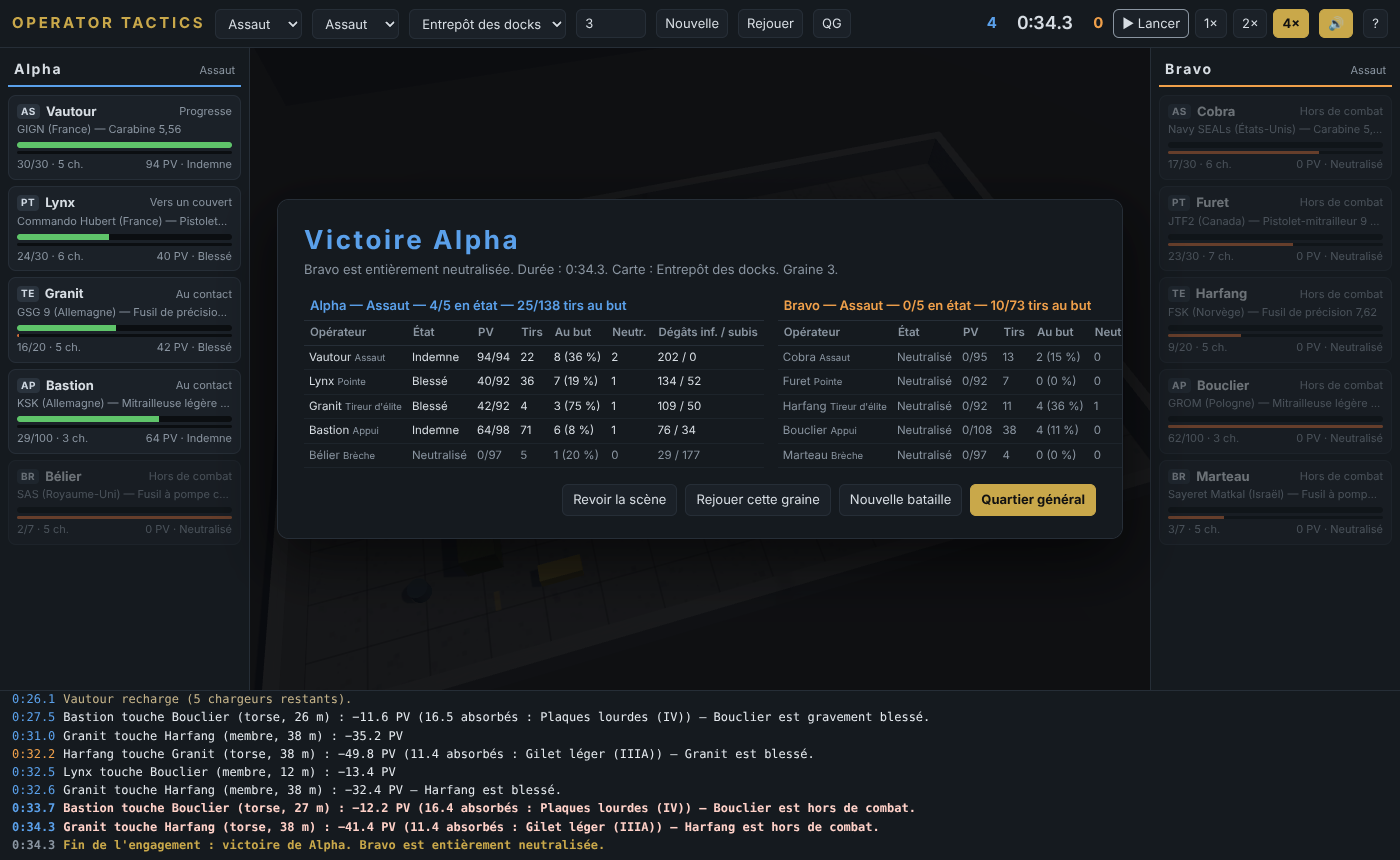
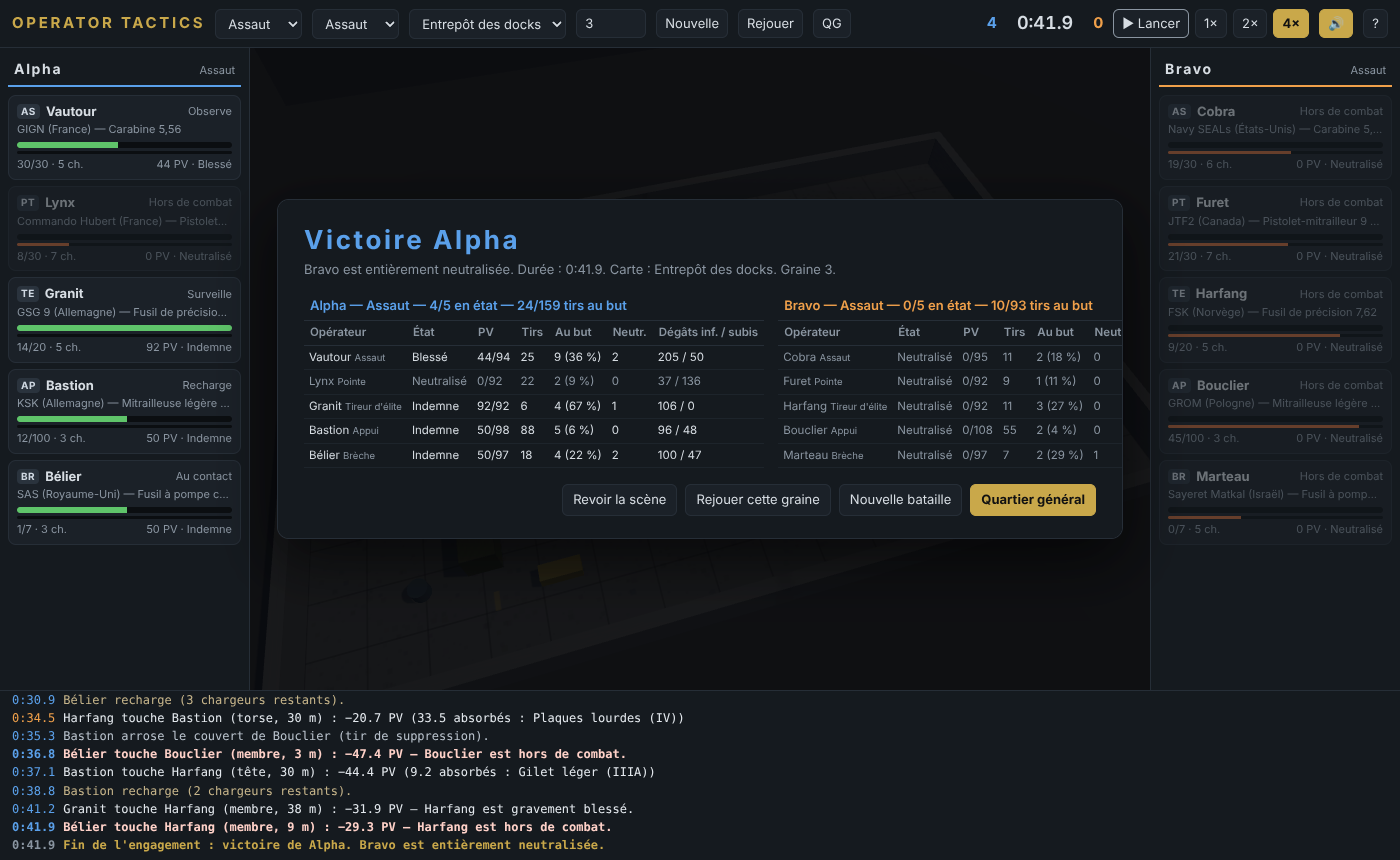
Équilibrage PM / fusil de précision, README
Claude-Session: https://claude.ai/code/session_01WV7pHQBGSsRxin6CyTjYgN

diff --git a/dist/artifact.html b/dist/artifact.html
@@ -269,13 +269,13 @@ window.Son = Son;
   // kit       : nombre de chargeurs emportés (en plus de celui dans l'arme)
   const WEAPONS = {
     carbine:  { id: 'carbine',  name: 'Carabine 5,56',      cls: 'fusil',    accuracy: 0.50, damage: 32, range: 45, minRange: 0,  rpm: 110, mag: 30,  reload: 2.6, aim: 0.55, falloff: 0.8,  suppress: 0.14, kit: 6 },
-    smg:      { id: 'smg',      name: 'Pistolet-mitrailleur 9 mm', cls: 'pm', accuracy: 0.56, damage: 25, range: 24, minRange: 0,  rpm: 170, mag: 30,  reload: 2.0, aim: 0.3,  falloff: 0.5,  suppress: 0.12, kit: 7 },
-    dmr:      { id: 'dmr',      name: 'Fusil de précision 7,62', cls: 'tireur', accuracy: 0.72, damage: 58, range: 90, minRange: 15, rpm: 36,  mag: 20,  reload: 3.0, aim: 1.4,  falloff: 0.9,  suppress: 0.28, kit: 5 },
+    smg:      { id: 'smg',      name: 'Pistolet-mitrailleur 9 mm', cls: 'pm', accuracy: 0.64, damage: 26, range: 24, minRange: 0,  rpm: 170, mag: 30,  reload: 2.0, aim: 0.3,  falloff: 0.5,  suppress: 0.12, kit: 7 },
+    dmr:      { id: 'dmr',      name: 'Fusil de précision 7,62', cls: 'tireur', accuracy: 0.66, damage: 58, range: 90, minRange: 15, rpm: 34,  mag: 20,  reload: 3.0, aim: 1.6,  falloff: 0.9,  suppress: 0.28, kit: 5 },
     lmg:      { id: 'lmg',      name: 'Mitrailleuse légère 5,56', cls: 'appui', accuracy: 0.32, damage: 30, range: 55, minRange: 0,  rpm: 210, mag: 100, reload: 6.5, aim: 0.9,  falloff: 0.8,  suppress: 0.26, kit: 3 },
     shotgun:  { id: 'shotgun',  name: 'Fusil à pompe cal. 12', cls: 'brèche', accuracy: 0.80, damage: 85, range: 12, minRange: 0,  rpm: 55,  mag: 7,   reload: 3.8, aim: 0.25, falloff: 0.3,  suppress: 0.2,  kit: 5 },
     // à acheter à l'armurerie
     battle:   { id: 'battle',   name: 'Fusil de combat 7,62', cls: 'fusil',    accuracy: 0.52, damage: 46, range: 60, minRange: 0,  rpm: 75,  mag: 20,  reload: 2.9, aim: 0.7,  falloff: 0.85, suppress: 0.2,  kit: 5 },
-    smgsil:   { id: 'smgsil',   name: 'PM 9 mm silencieux', cls: 'pm',    accuracy: 0.58, damage: 22, range: 20, minRange: 0,  rpm: 150, mag: 30,  reload: 2.0, aim: 0.3,  falloff: 0.5,  suppress: 0.07, kit: 7, silenced: true },
+    smgsil:   { id: 'smgsil',   name: 'PM 9 mm silencieux', cls: 'pm',    accuracy: 0.64, damage: 23, range: 20, minRange: 0,  rpm: 150, mag: 30,  reload: 2.0, aim: 0.3,  falloff: 0.5,  suppress: 0.07, kit: 7, silenced: true },
   };
 
   // ---- PROTECTIONS -------------------------------------------------------------------

diff --git a/dist/index.html b/dist/index.html
@@ -276,13 +276,13 @@ window.Son = Son;
   // kit       : nombre de chargeurs emportés (en plus de celui dans l'arme)
   const WEAPONS = {
     carbine:  { id: 'carbine',  name: 'Carabine 5,56',      cls: 'fusil',    accuracy: 0.50, damage: 32, range: 45, minRange: 0,  rpm: 110, mag: 30,  reload: 2.6, aim: 0.55, falloff: 0.8,  suppress: 0.14, kit: 6 },
-    smg:      { id: 'smg',      name: 'Pistolet-mitrailleur 9 mm', cls: 'pm', accuracy: 0.56, damage: 25, range: 24, minRange: 0,  rpm: 170, mag: 30,  reload: 2.0, aim: 0.3,  falloff: 0.5,  suppress: 0.12, kit: 7 },
-    dmr:      { id: 'dmr',      name: 'Fusil de précision 7,62', cls: 'tireur', accuracy: 0.72, damage: 58, range: 90, minRange: 15, rpm: 36,  mag: 20,  reload: 3.0, aim: 1.4,  falloff: 0.9,  suppress: 0.28, kit: 5 },
+    smg:      { id: 'smg',      name: 'Pistolet-mitrailleur 9 mm', cls: 'pm', accuracy: 0.64, damage: 26, range: 24, minRange: 0,  rpm: 170, mag: 30,  reload: 2.0, aim: 0.3,  falloff: 0.5,  suppress: 0.12, kit: 7 },
+    dmr:      { id: 'dmr',      name: 'Fusil de précision 7,62', cls: 'tireur', accuracy: 0.66, damage: 58, range: 90, minRange: 15, rpm: 34,  mag: 20,  reload: 3.0, aim: 1.6,  falloff: 0.9,  suppress: 0.28, kit: 5 },
     lmg:      { id: 'lmg',      name: 'Mitrailleuse légère 5,56', cls: 'appui', accuracy: 0.32, damage: 30, range: 55, minRange: 0,  rpm: 210, mag: 100, reload: 6.5, aim: 0.9,  falloff: 0.8,  suppress: 0.26, kit: 3 },
     shotgun:  { id: 'shotgun',  name: 'Fusil à pompe cal. 12', cls: 'brèche', accuracy: 0.80, damage: 85, range: 12, minRange: 0,  rpm: 55,  mag: 7,   reload: 3.8, aim: 0.25, falloff: 0.3,  suppress: 0.2,  kit: 5 },
     // à acheter à l'armurerie
     battle:   { id: 'battle',   name: 'Fusil de combat 7,62', cls: 'fusil',    accuracy: 0.52, damage: 46, range: 60, minRange: 0,  rpm: 75,  mag: 20,  reload: 2.9, aim: 0.7,  falloff: 0.85, suppress: 0.2,  kit: 5 },
-    smgsil:   { id: 'smgsil',   name: 'PM 9 mm silencieux', cls: 'pm',    accuracy: 0.58, damage: 22, range: 20, minRange: 0,  rpm: 150, mag: 30,  reload: 2.0, aim: 0.3,  falloff: 0.5,  suppress: 0.07, kit: 7, silenced: true },
+    smgsil:   { id: 'smgsil',   name: 'PM 9 mm silencieux', cls: 'pm',    accuracy: 0.64, damage: 23, range: 20, minRange: 0,  rpm: 150, mag: 30,  reload: 2.0, aim: 0.3,  falloff: 0.5,  suppress: 0.07, kit: 7, silenced: true },
   };
 
   // ---- PROTECTIONS -------------------------------------------------------------------

diff --git a/sim/data.js b/sim/data.js
@@ -14,13 +14,13 @@
   // kit       : nombre de chargeurs emportés (en plus de celui dans l'arme)
   const WEAPONS = {
     carbine:  { id: 'carbine',  name: 'Carabine 5,56',      cls: 'fusil',    accuracy: 0.50, damage: 32, range: 45, minRange: 0,  rpm: 110, mag: 30,  reload: 2.6, aim: 0.55, falloff: 0.8,  suppress: 0.14, kit: 6 },
-    smg:      { id: 'smg',      name: 'Pistolet-mitrailleur 9 mm', cls: 'pm', accuracy: 0.56, damage: 25, range: 24, minRange: 0,  rpm: 170, mag: 30,  reload: 2.0, aim: 0.3,  falloff: 0.5,  suppress: 0.12, kit: 7 },
-    dmr:      { id: 'dmr',      name: 'Fusil de précision 7,62', cls: 'tireur', accuracy: 0.72, damage: 58, range: 90, minRange: 15, rpm: 36,  mag: 20,  reload: 3.0, aim: 1.4,  falloff: 0.9,  suppress: 0.28, kit: 5 },
+    smg:      { id: 'smg',      name: 'Pistolet-mitrailleur 9 mm', cls: 'pm', accuracy: 0.64, damage: 26, range: 24, minRange: 0,  rpm: 170, mag: 30,  reload: 2.0, aim: 0.3,  falloff: 0.5,  suppress: 0.12, kit: 7 },
+    dmr:      { id: 'dmr',      name: 'Fusil de précision 7,62', cls: 'tireur', accuracy: 0.66, damage: 58, range: 90, minRange: 15, rpm: 34,  mag: 20,  reload: 3.0, aim: 1.6,  falloff: 0.9,  suppress: 0.28, kit: 5 },
     lmg:      { id: 'lmg',      name: 'Mitrailleuse légère 5,56', cls: 'appui', accuracy: 0.32, damage: 30, range: 55, minRange: 0,  rpm: 210, mag: 100, reload: 6.5, aim: 0.9,  falloff: 0.8,  suppress: 0.26, kit: 3 },
     shotgun:  { id: 'shotgun',  name: 'Fusil à pompe cal. 12', cls: 'brèche', accuracy: 0.80, damage: 85, range: 12, minRange: 0,  rpm: 55,  mag: 7,   reload: 3.8, aim: 0.25, falloff: 0.3,  suppress: 0.2,  kit: 5 },
     // à acheter à l'armurerie
     battle:   { id: 'battle',   name: 'Fusil de combat 7,62', cls: 'fusil',    accuracy: 0.52, damage: 46, range: 60, minRange: 0,  rpm: 75,  mag: 20,  reload: 2.9, aim: 0.7,  falloff: 0.85, suppress: 0.2,  kit: 5 },
-    smgsil:   { id: 'smgsil',   name: 'PM 9 mm silencieux', cls: 'pm',    accuracy: 0.58, damage: 22, range: 20, minRange: 0,  rpm: 150, mag: 30,  reload: 2.0, aim: 0.3,  falloff: 0.5,  suppress: 0.07, kit: 7, silenced: true },
+    smgsil:   { id: 'smgsil',   name: 'PM 9 mm silencieux', cls: 'pm',    accuracy: 0.64, damage: 23, range: 20, minRange: 0,  rpm: 150, mag: 30,  reload: 2.0, aim: 0.3,  falloff: 0.5,  suppress: 0.07, kit: 7, silenced: true },
   };
 
   // ---- PROTECTIONS -------------------------------------------------------------------

diff --git a/README.md b/README.md
@@ -12,15 +12,16 @@ l'issue dépend uniquement des événements simulés (perception, déplacements,
 | Dossier | Contenu |
 |---|---|
 | `sim/rng.js` | générateur aléatoire déterministe (graine) |
-| `sim/data.js` | armes, protections, rôles, opérateurs, ordres, missions, prix, table d'expérience |
+| `sim/data.js` | armes, protections, rôles, compétences, opérateurs (Coalition et Groupe Karst), ordres, missions, prix, table d'expérience |
 | `sim/map.js` | cartes (obstacles 3D avec hauteur), grille + A*, lignes de vue (rayon 3D), points de couverture |
 | `sim/engine.js` | moteur de combat : perception, radio, IA, déplacements, tirs, dégâts, suppression, fin de bataille, journal |
 | `sim/game.js` | boucle de jeu : profil, collection, équipement, voies, missions, récompenses, sauvegarde locale |
 | `web/app.js` | rendu three.js, animations, effets, interface de bataille, résultat |
 | `web/hq.js` | quartier général (escouade, fiche, armurerie, missions) |
-| `tests/verify.js` | 34 vérifications du moteur (`node tests/verify.js 40`) |
+| `tests/verify.js` | 45 vérifications du moteur (`node tests/verify.js 40`) |
 | `tests/game.js` | 24 vérifications de la boucle de jeu |
-| `tests/verif_page.py` | 26 vérifications de la page dans un navigateur (Playwright, WebGL logiciel) |
+| `tests/verif_page.py` | 28 vérifications de la page dans un navigateur (Playwright, WebGL logiciel) |
+| `sons/sons_ot.py` | les 14 bruitages (synthèse hors ligne avec la boîte à outils ; `fabriquer.py` → `sons/out`, `integrer.py` → page) |
 | `tests/run.js`, `tests/trace.js`, `tests/stats.js` | une bataille en console, trace seconde par seconde, statistiques d'équilibrage |
 
 ## Règles de simulation (résumé)
@@ -31,10 +32,11 @@ l'issue dépend uniquement des événements simulés (perception, déplacements,
 - Chance de toucher = précision de l'arme × compétence × distance (portée efficace, portée minimale) × mouvement × posture
   × couvert × suppression × blessure × position préparée (ordre Tenir).
 - Dégâts = arme × perte à distance × localisation (tête 8 %, torse 52 %, membres 40 %) × (1 − protection) ± 15 %.
-- Ordres : Assaut (contact), Tenir (postes face aux axes, embuscade, calé), Prudent (bonds, contournement, repli).
+- Ordres : Assaut (contact), Tenir (postes face aux axes, embuscade, calé), Prudent (bonds, contournement, repli) ; l'ordre d'Alpha se change en cours de bataille (`Battle.setOrder`).
+- Compétences : un trait par opérateur (`DATA.TRAITS`), chaque effet est implémenté dans engine.js (rechercher `has(u, '…')`).
 - Fin : équipe neutralisée, objectif « tenir » à l'échéance, ou limite de temps (décision aux effectifs puis à l'état).
 
 ## Limites connues
-- Modèles d'opérateurs construits par programme (pas de modèles externes), pas de son.
-- Deux cartes, 14 opérateurs, 7 armes, 3 protections, 7 missions.
+- Modèles d'opérateurs construits par programme (pas de modèles externes) ; bruitages synthétisés, pas de musique.
+- Deux cartes, 14 opérateurs recrutables + 8 ennemis du Groupe Karst, 7 armes, 3 protections, 7 missions.
 - La sauvegarde est locale au navigateur (localStorage) : pas de synchronisation entre appareils.
